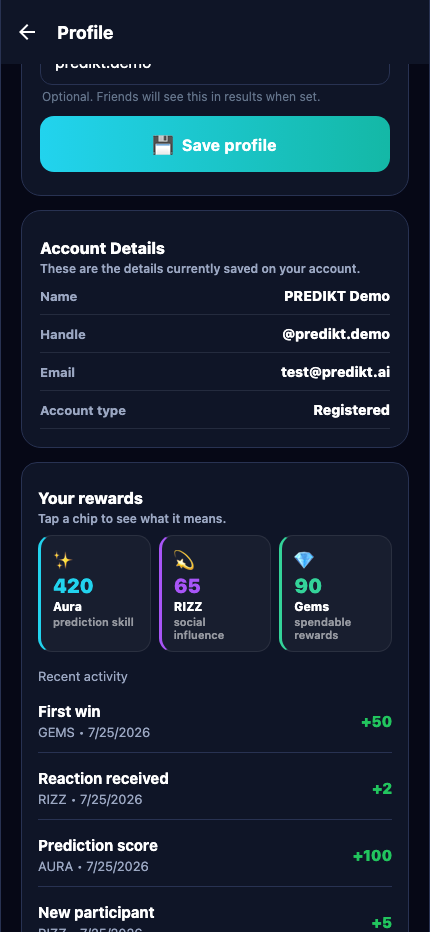
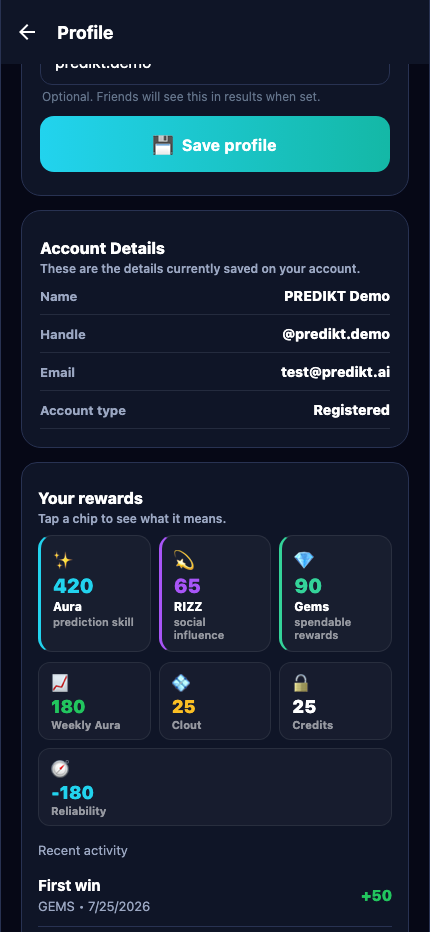
Merge Profile reward sections into one card
Fold the legacy Weekly Aura / Clout / Credits / Reliability chips into the
new "Your rewards" card as a consistent dark secondary row, replacing the
separate white StatChip grid. One cohesive rewards section: currency chips
(with tooltips) → secondary stats → recent activity.

diff --git a/mobile/src/screens/ProfileScreen.tsx b/mobile/src/screens/ProfileScreen.tsx
@@ -42,7 +42,7 @@ import { fetchRewardsMe, RewardsMe } from '../services/rewards';
 
 type Stats = ProfileStats;
 
-function StatChip({
+function MiniStat({
   icon,
   label,
   value,
@@ -54,10 +54,10 @@ function StatChip({
   accent: string;
 }) {
   return (
-    <View style={[styles.chip, { borderLeftColor: accent }]}>
-      <Text style={styles.chipIcon}>{icon}</Text>
-      <Text style={[styles.chipValue, { color: accent }]}>{value}</Text>
-      <Text style={styles.chipLabel}>{label}</Text>
+    <View style={styles.miniStat}>
+      <Text style={styles.miniStatIcon}>{icon}</Text>
+      <Text style={[styles.miniStatValue, { color: accent }]}>{value}</Text>
+      <Text style={styles.miniStatLabel}>{label}</Text>
     </View>
   );
 }
@@ -296,16 +296,26 @@ export default function ProfileScreen() {
         </View>
       </View>
 
-      {rewards ? (
+      {rewards || stats ? (
         <View style={[cardStyle(), { gap: spacing.sm }]}>
           <SectionHeader title="Your rewards" subtitle="Tap a chip to see what it means." />
-          <RewardChips
-            aura={rewards.aura.balance}
-            rizz={rewards.rizz.balance}
-            gems={rewards.gems.balance}
-            variant="labeled"
-          />
-          {rewards.recentEntries.length > 0 ? (
+          {rewards ? (
+            <RewardChips
+              aura={rewards.aura.balance}
+              rizz={rewards.rizz.balance}
+              gems={rewards.gems.balance}
+              variant="labeled"
+            />
+          ) : null}
+          {stats ? (
+            <View style={styles.miniStatRow}>
+              <MiniStat icon="📈" label="Weekly Aura" value={stats.weeklyAura} accent={colors.green} />
+              <MiniStat icon="💠" label="Clout" value={stats.cloutBalance} accent={colors.amber} />
+              <MiniStat icon="🔓" label="Credits" value={stats.creditBalance ?? user?.creditBalance ?? 0} accent={colors.textPrimary} />
+              <MiniStat icon="🧭" label="Reliability" value={stats.reliabilityScore ?? 0} accent={colors.purple} />
+            </View>
+          ) : null}
+          {rewards && rewards.recentEntries.length > 0 ? (
             <View style={{ gap: spacing.xs, marginTop: spacing.xs }}>
               <Text style={[styles.followMeta, { color: colors.textSecondary, marginBottom: 2 }]}>
                 Recent activity
@@ -339,14 +349,6 @@ export default function ProfileScreen() {
         </View>
       ) : null}
 
-      {stats ? (
-        <View style={styles.chipGrid}>
-          <StatChip icon="📈" label="Weekly Aura" value={stats.weeklyAura} accent={colors.green} />
-          <StatChip icon="💠" label="Clout" value={stats.cloutBalance} accent={colors.amber} />
-          <StatChip icon="🔓" label="Credits" value={stats.creditBalance ?? user?.creditBalance ?? 0} accent={colors.purple} />
-          <StatChip icon="🧭" label="Reliability" value={stats.reliabilityScore ?? 0} accent={colors.purple} />
-        </View>
-      ) : null}
 
       {userBadges.length > 0 ? (
         <View style={[styles.card, { backgroundColor: colors.surface, borderColor: colors.border }]}>
@@ -550,11 +552,20 @@ const styles = StyleSheet.create({
   quickStatIcon: { fontSize: 18 },
   quickStatValue: { fontSize: 20, fontWeight: '900' },
   quickStatLabel: { fontSize: 11, fontWeight: '800' },
-  chipGrid: { flexDirection: 'row', flexWrap: 'wrap', gap: 10 },
-  chip: { width: '47%', backgroundColor: '#fff', borderRadius: 18, padding: 14, borderLeftWidth: 4, minHeight: 110 },
-  chipIcon: { fontSize: 22 },
-  chipValue: { marginTop: 10, fontSize: 22, fontWeight: '900' },
-  chipLabel: { marginTop: 6, color: '#64748b', fontSize: 12, fontWeight: '700' },
+  miniStatRow: { flexDirection: 'row', flexWrap: 'wrap', gap: 8, marginTop: 2 },
+  miniStat: {
+    flexGrow: 1,
+    flexBasis: 96,
+    borderRadius: 12,
+    backgroundColor: 'rgba(255,255,255,0.03)',
+    borderWidth: 1,
+    borderColor: 'rgba(255,255,255,0.08)',
+    paddingHorizontal: 12,
+    paddingVertical: 8,
+  },
+  miniStatIcon: { fontSize: 14 },
+  miniStatValue: { marginTop: 2, fontSize: 18, fontWeight: '900' },
+  miniStatLabel: { marginTop: 1, color: 'rgba(255,255,255,0.55)', fontSize: 11, fontWeight: '700' },
   badgeWrap: { flexDirection: 'row', flexWrap: 'wrap', gap: 8 },
   followRow: {
     flexDirection: 'row',
